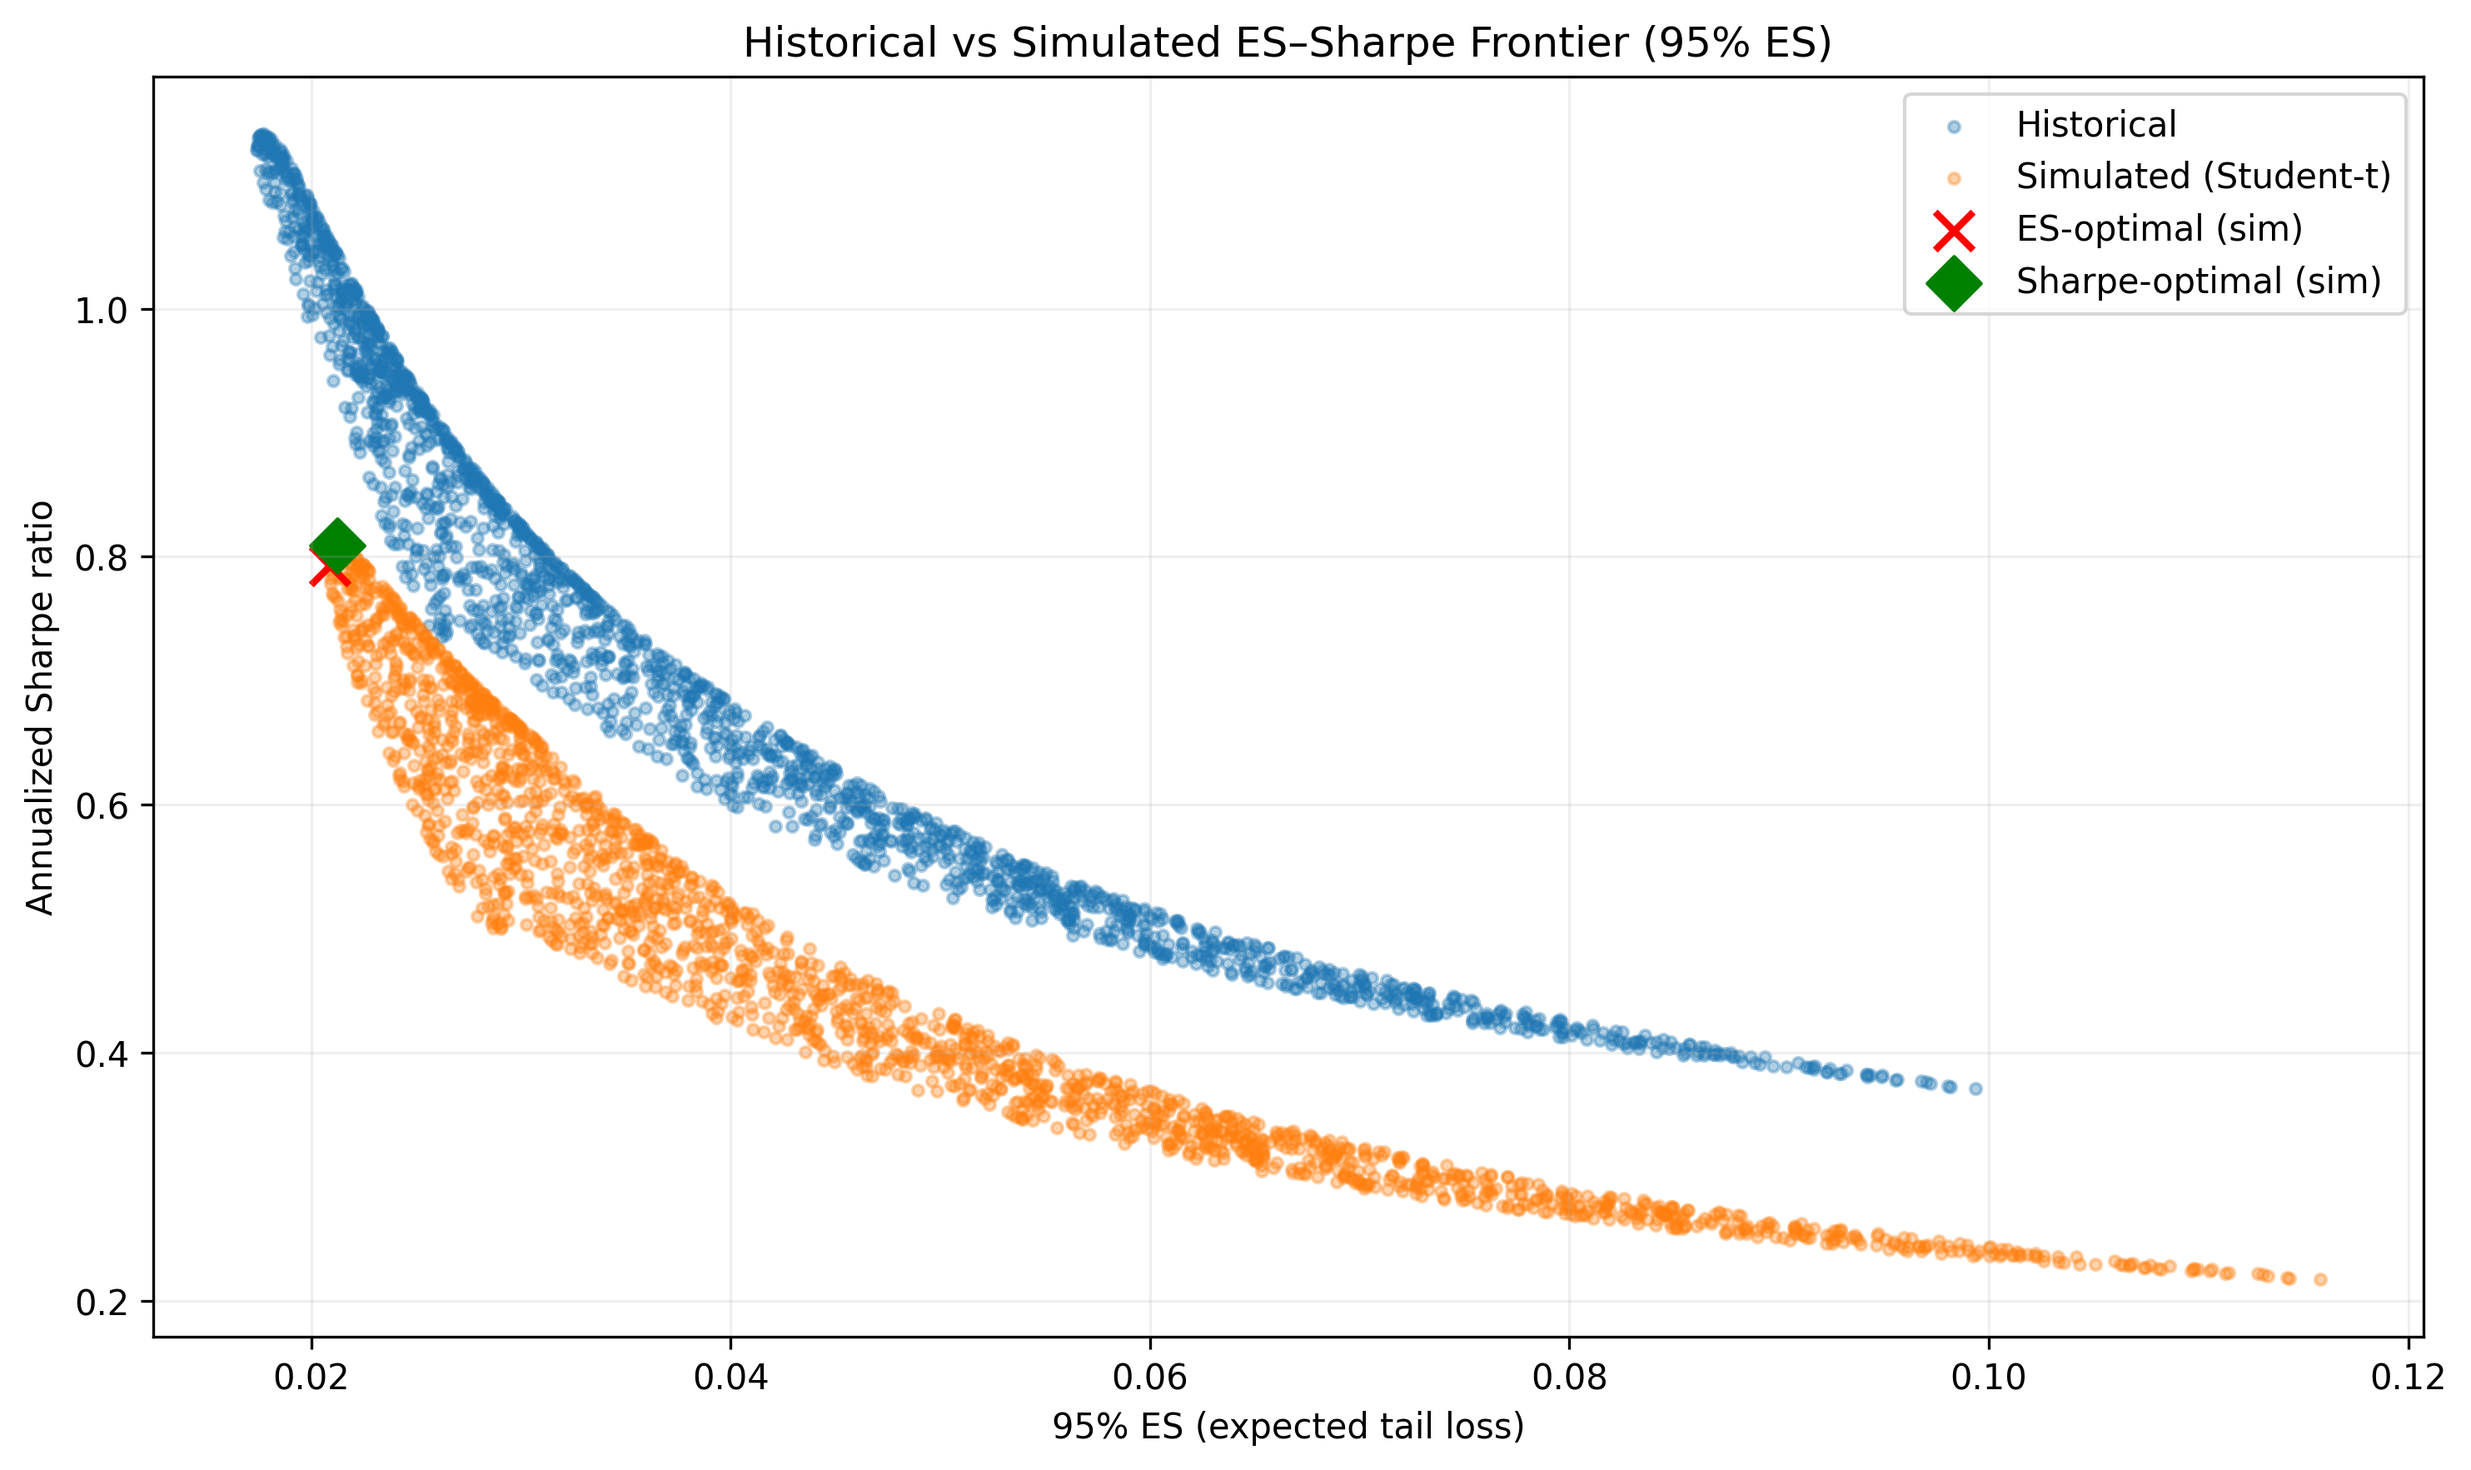
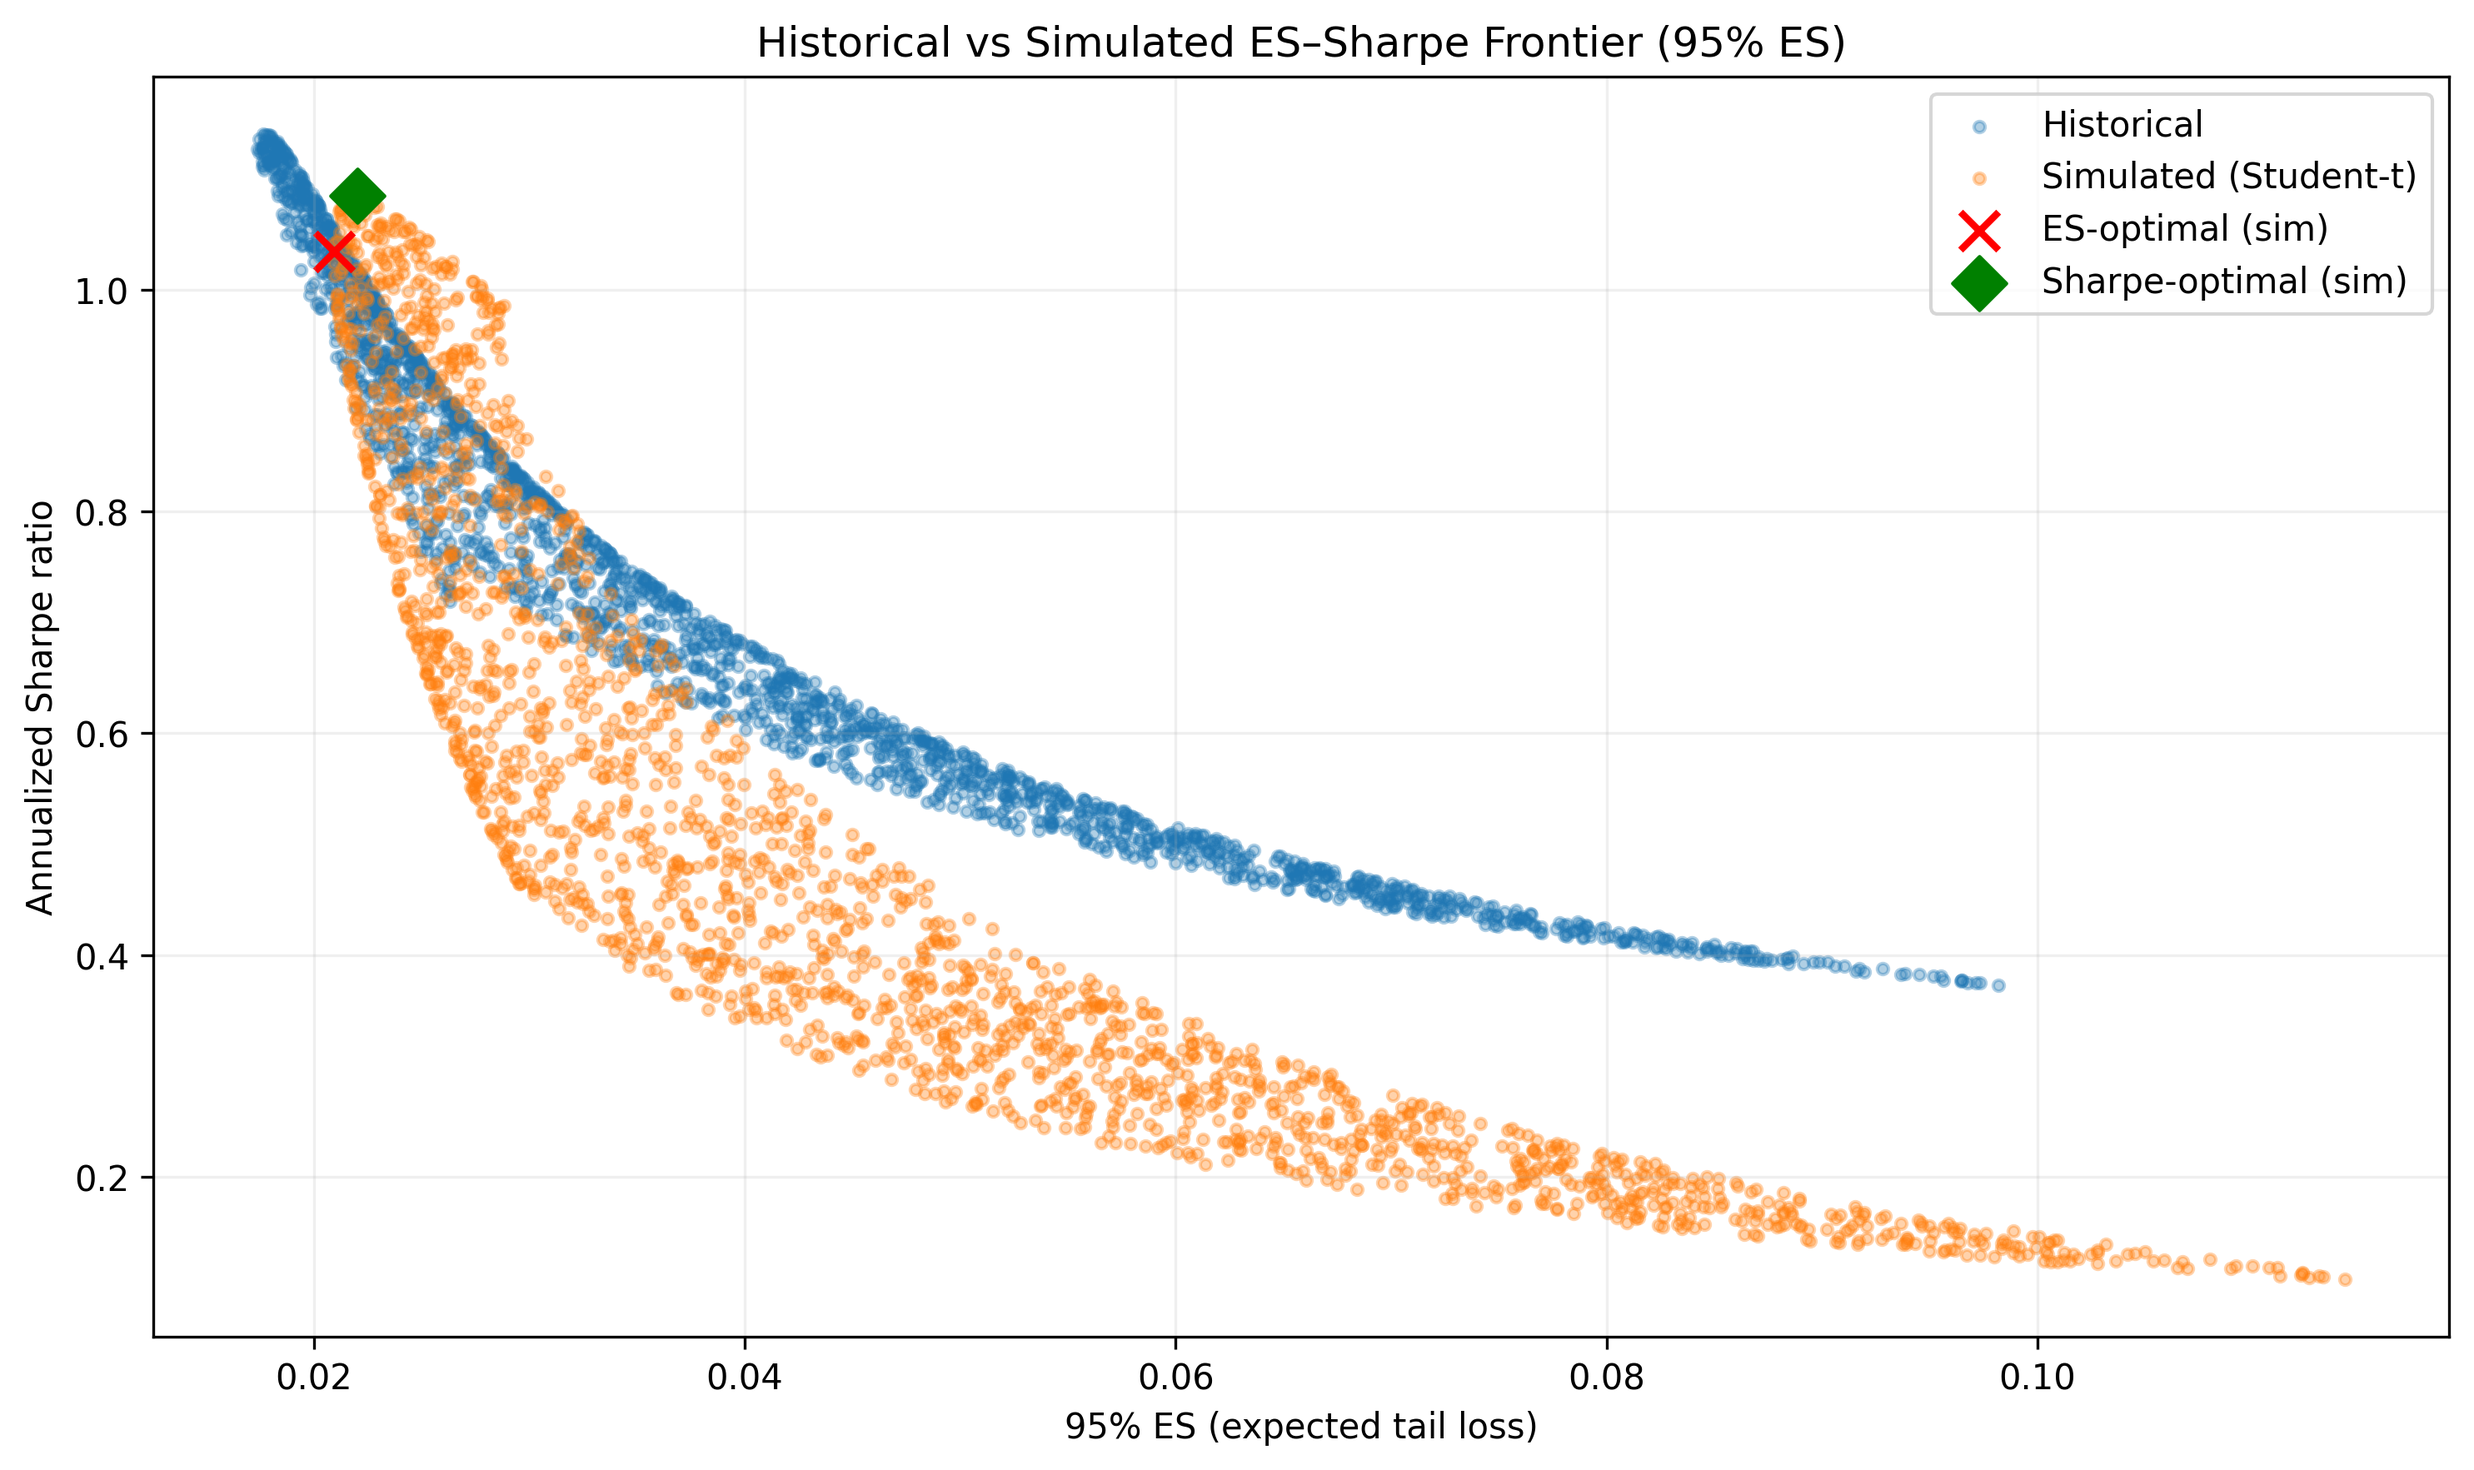
update figs

diff --git a/main.py b/main.py
@@ -18,7 +18,7 @@ from ewma import ewma_var_es   # <-- NEW IMPORT
 
 def main():
     # Optional: reproducible simulation
-    np.random.seed(42)
+    #np.random.seed(42)
 
     # Ensure figures directory exists
     os.makedirs("figures", exist_ok=True)
